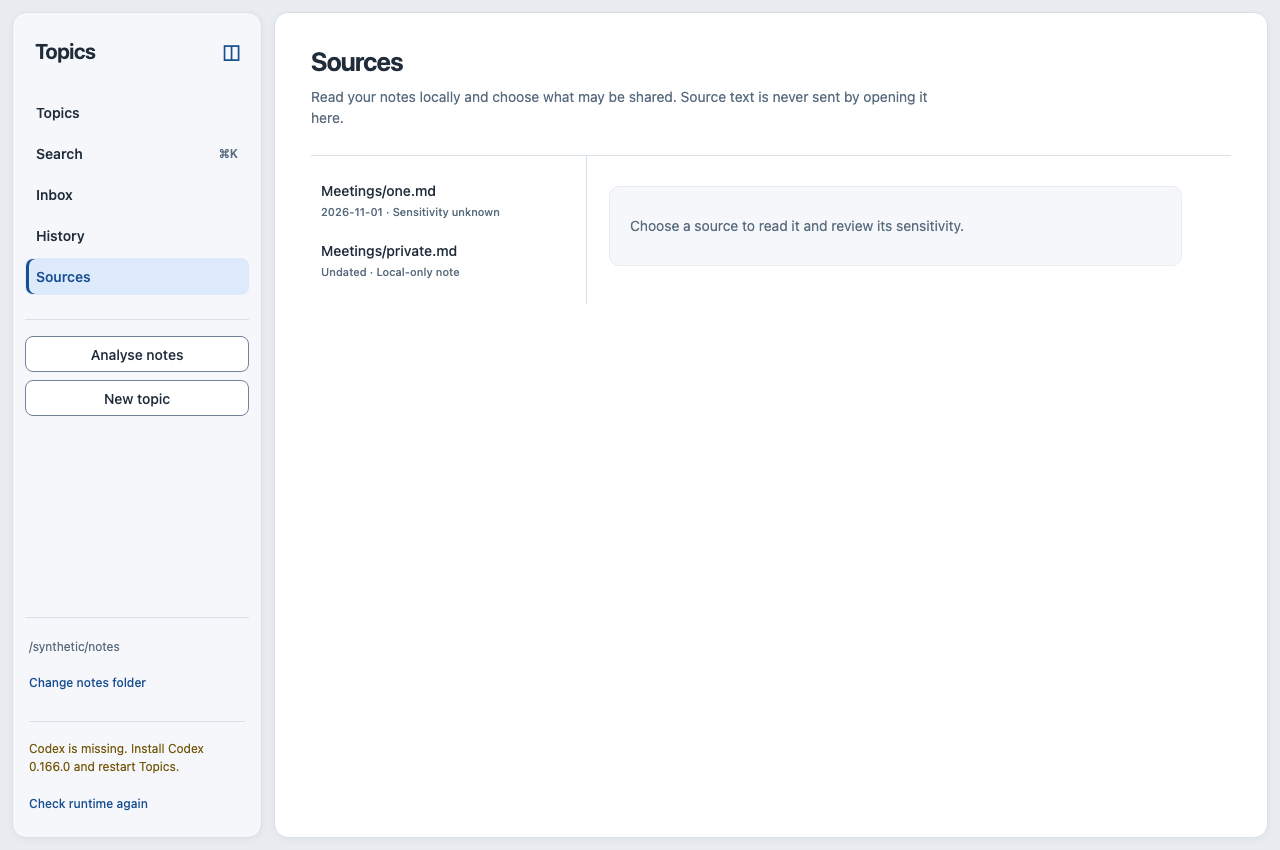
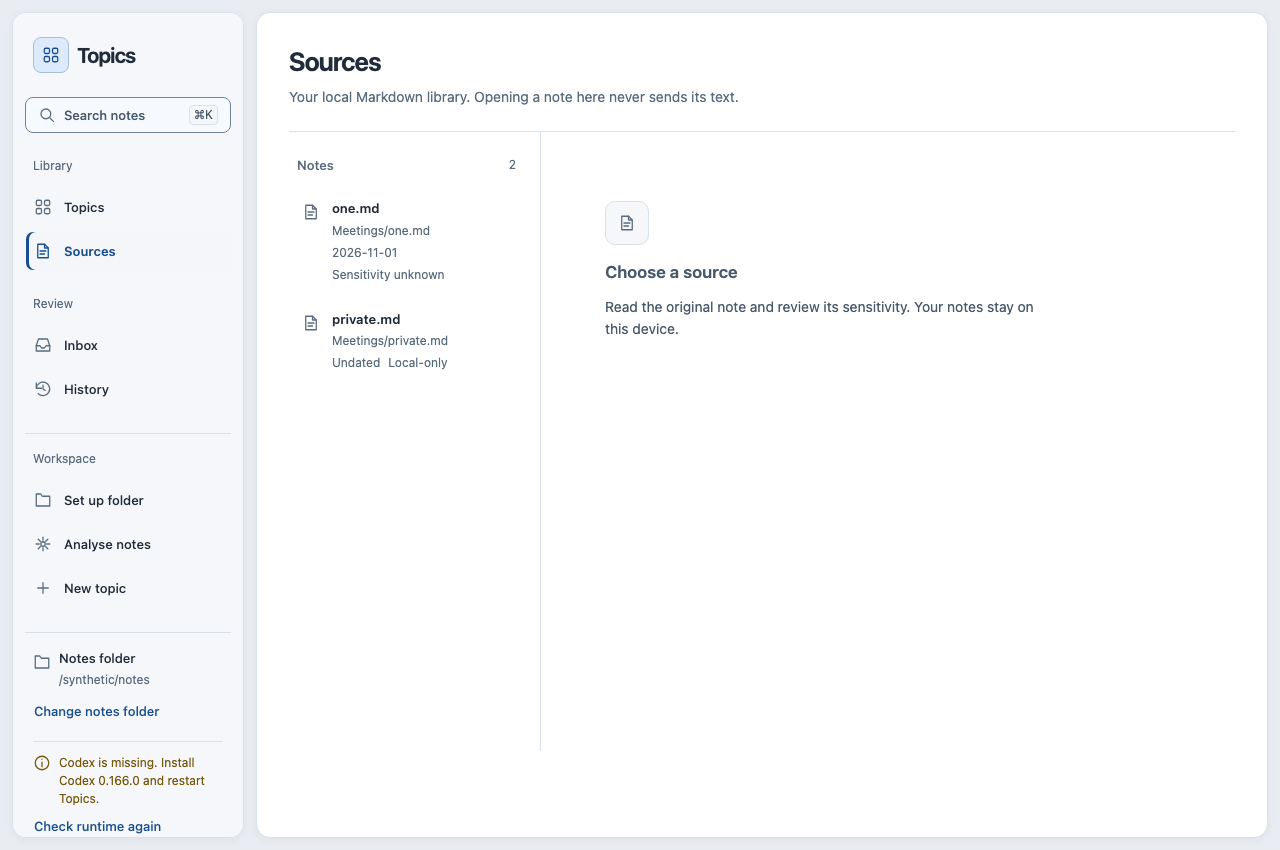
Record verified BoardUI screen evidence and integration coverage

diff --git a/apps/desktop/tests/setup-redesign.spec.ts b/apps/desktop/tests/setup-redesign.spec.ts
@@ -20,7 +20,8 @@ for (const appearance of ["light", "dark", "narrow"] as const) {
     await expect(
       page.getByRole("heading", { name: "Choose notes to analyse" }),
     ).toBeVisible();
-    await page.screenshot({
+    await page.evaluate(() => window.scrollTo(0, 0));
+      await page.screenshot({
       path: `evidence/redesign/after/${appearance}-folder-inventory.png`,
       fullPage: true,
     });
@@ -36,7 +37,8 @@ for (const appearance of ["light", "dark", "narrow"] as const) {
     await expect(
       page.getByLabel("Authorize this exact manifest for this job"),
     ).not.toBeChecked();
-    await page.screenshot({
+    await page.evaluate(() => window.scrollTo(0, 0));
+      await page.screenshot({
       path: `evidence/redesign/after/${appearance}-folder-manifest.png`,
       fullPage: true,
     });
@@ -57,7 +59,8 @@ for (const appearance of ["light", "dark", "narrow"] as const) {
     await expect(
       page.getByRole("button", { name: "Review topic group", exact: true }),
     ).toBeVisible();
-    await page.screenshot({
+    await page.evaluate(() => window.scrollTo(0, 0));
+      await page.screenshot({
       path: `evidence/redesign/after/${appearance}-starting-map.png`,
       fullPage: true,
     });
@@ -70,7 +73,8 @@ for (const appearance of ["light", "dark", "narrow"] as const) {
     await expect(page.getByRole("checkbox", { name: /^Include/ })).toHaveCount(
       0,
     );
-    await page.screenshot({
+    await page.evaluate(() => window.scrollTo(0, 0));
+      await page.screenshot({
       path: `evidence/redesign/after/${appearance}-save-map.png`,
       fullPage: true,
     });
@@ -128,7 +132,8 @@ for (const appearance of ["light", "dark", "narrow"] as const) {
         () => document.documentElement.scrollWidth <= innerWidth,
       ),
     ).toBe(true);
-    await page.screenshot({
+    await page.evaluate(() => window.scrollTo(0, 0));
+      await page.screenshot({
       path: `evidence/redesign/after/${appearance}-context-correction.png`,
       fullPage: true,
     });

diff --git a/apps/desktop/tests/redesign-capture.spec.ts b/apps/desktop/tests/redesign-capture.spec.ts
@@ -12,6 +12,7 @@ for (const appearance of ["light", "dark", "narrow"] as const) {
     "history",
     "setup",
     "analysis",
+    "manual",
   ] as const) {
     test(`capture ${appearance} ${screen}`, async ({ page }) => {
       await page.setViewportSize({
@@ -152,12 +153,17 @@ for (const appearance of ["light", "dark", "narrow"] as const) {
         await expect(
           page.getByRole("heading", { name: "Review selected notes" }),
         ).toBeVisible();
+      } else if (screen === "manual") {
+        await page.getByRole('complementary', { name: 'Topics workspace' }).getByRole('button', { name: 'New topic', exact: true }).click();
+        await page.getByLabel('Topic name', { exact: true }).fill('Migration questions');
+        await expect(page.getByRole('button', { name: 'Create proposal', exact: true })).toBeEnabled();
       } else await expect(page.getByLabel("Notes folder path")).toBeVisible();
       expect(
         await page.evaluate(
           () => document.documentElement.scrollWidth <= innerWidth,
         ),
       ).toBe(true);
+      await page.evaluate(() => window.scrollTo(0, 0));
       await page.screenshot({
         path: `evidence/redesign/${phase}/${appearance}-${screen}.png`,
         fullPage: true,

diff --git a/apps/desktop/evidence/redesign/README.md b/apps/desktop/evidence/redesign/README.md
@@ -1,0 +1,122 @@
+# BoardUI screen redesign verification
+
+Implementation checkpoint: `c6965c044dd580bd39e43da712e8740d5397dffd`, based on
+local main `a38b33471125225d57c8e1a257f092aed63a1f40`. Work was confined to
+`/Users/macs/orca/workspaces/topics/topics-boardui-screen-redesign`.
+
+The screen plan was written before implementation in
+[`docs/design/redesign.md`](../../../../docs/design/redesign.md). The change is
+a React structure and presentation redesign, with shared components adopted
+across screens. The established semantic palette, local system font and native
+controls remain. No remote font or production dependency was added.
+
+## Commits and integration
+
+| Commit | Purpose |
+| --- | --- |
+| `454f55a9b55f4b57b7e196c9f7e0de53e9a17f43` | Screen-level before/after plan, shared React primitives and reading/control type roles; shared early with the setup team. |
+| `49dc58f` | Synthetic baseline evidence and isolated capture configuration. |
+| `720f846c5d6978365aba05f39704468c6a5d6ee7` | Authorized cherry-pick of setup presentation checkpoint `cad67576a33179cc1101b070da9b5b54dff10218`. |
+| `c6965c044dd580bd39e43da712e8740d5397dffd` | Full structural screen implementation, documentation and interaction/contrast coverage. |
+
+The imported setup checkpoint includes its existing canonical/native adapters;
+this worker did not independently change native or generated binding contracts.
+The coordinator requested a final canonical setup delta before full acceptance.
+That delta is still pending at this checkpoint; this report does **not** claim
+verification of later setup/API changes or final native acceptance.
+
+## Screen coverage
+
+Every `after` screen below has a full-page synthetic screenshot in desktop
+light, desktop dark and narrow light. Prefix filenames with `light-`, `dark-`
+or `narrow-`. Desktop captures are 1440 × 960 CSS pixels; narrow is 600 × 960.
+The 320px long-content cases are functional tests, not additional screenshot
+claims. Full-page capture scroll is reset before capture so sticky navigation
+appears at the document top.
+
+| Surface | Substantive redesign | Screenshot basename in `after/` |
+| --- | --- | --- |
+| Shell | Grouped icon navigation, actual Cmd/Ctrl+K quick search, selected shapes, creation actions, full folder/runtime footer, skip link. | Present throughout |
+| Topics | One workspace heading/action, identity/type/privacy rows, dominant accepted claim values, adjacent uncertainty, disclosed evidence, connections/unresolved sections and revisions. | `topics.png` |
+| Sources | Basename/full-path library rows, selection, separate source identity/privacy/location controls, whitespace-preserving reading surface. | `sources.png` |
+| Search | Persistent labelled/adorned field, title/path/excerpt rows, safe highlights and distinct loading/idle/empty/error feedback. | `search.png` |
+| Inbox | Proposal heading/status and decision footer; candidate type/inclusion, related editable fields, full evidence and explicit approval/rejection. | `inbox.png` |
+| History | Operation icon, description, time/status, identity disclosure and contextual Undo with explanation when unavailable. | `history.png` |
+| Initial connection | Focused form; native chooser fills the labelled field, explicit Use notes folder connects; unrelated Search no longer appears beneath setup. | `setup.png` |
+| Manual capture | Focused identity/privacy form and explicit Create proposal; review remains required. | `manual.png` |
+| Analysis | Actual select → preview/authorize → Inbox sequence, grouped scope fields, included/excluded rows, consent and start boundary. | `analysis.png` |
+| Folder inventory | Shared page/section/field/button primitives, hierarchical notes/roles, date filters and exclusions. | `folder-inventory.png` |
+| Exact manifest | Named scope, exclusions, unchecked per-job authorization and disabled start until consent. | `folder-manifest.png` |
+| Starting map | Coverage, keyboard-accessible graph/list, topic detail group, relationships and input-needed sections. | `starting-map.png` |
+| Save receipt | Enumerated exact candidate/dependency/deferred context followed by explicit Save or Cancel. | `save-map.png` |
+| Contextual review | Compact review rows, status, source disclosure, focused correction form, original/replacement values, user statement and future-rule scope before approval. | `context-correction.png` |
+
+There are 21 immutable `before/` screenshots of the original seven requested
+surfaces, and 39 `after/` screenshots (13 surfaces × 3 appearances). New setup
+and contextual-review screens did not exist in the baseline and have no invented
+before screenshots. The `before-*-contact.png` and `after-*-contact.png` sheets
+provide comparison indexes. The original full-size images remain authoritative.
+
+All baseline screens and final screenshots were visually inspected, including
+the populated reader, source policy, search results, review/consent boundaries,
+operation rows, narrow stacking and the new setup/contextual states. Inspection
+caught a full-page skip-link artifact; unfocused skip links now use clipping,
+and screenshots reset scroll for consistent sticky-sidebar placement.
+
+## Checks
+
+Pinned local runtime: `apps/desktop/node_modules/node/bin/node`, **v24.22.2**.
+The initial dependency bootstrap used system npm; all verification used the
+project-local Node binary. Browser port **14337** is strict and isolated.
+Every test server invocation received the absolute isolated
+`TOPICS_APP_DATA_DIR=/tmp/topics-boardui-redesign-browser-0cd733`. Browser IPC
+is mocked with synthetic notes; no personal note tree, repository `notes`
+symlink, genuine model call or real user application was used.
+
+From `apps/desktop`:
+
+```sh
+TOPICS_APP_DATA_DIR=/tmp/topics-boardui-redesign-browser-0cd733 \
+  node_modules/node/bin/node node_modules/@playwright/test/cli.js test \
+  --config evidence/redesign/playwright.config.ts
+node_modules/node/bin/node node_modules/typescript/bin/tsc --noEmit
+node_modules/node/bin/node node_modules/vite/bin/vite.js build
+```
+
+- **81 browser tests passed**, including all existing feature/browser suites,
+  retained rendered contrast checks, the new interaction cases and captures.
+  See [`full-browser.txt`](full-browser.txt).
+- **TypeScript and production Vite build passed**; see [`build.txt`](build.txt).
+- New meaningful checks exercise Cmd/Ctrl+K from a topic, query selection,
+  disconnected setup guards, native disclosure Enter/Space behavior, delayed
+  topic selection, manual/settings cancel focus restoration, post-proposal
+  focus, exact manifest consent, graph keyboard activation, correction preview
+  without implicit approval, 320px long paths/content and browser text selection.
+- Existing async, stale-root/response, hostile markup, approval/dependency,
+  source sensitivity and draft/consent-preservation behavior remains covered.
+- Computed light/dark field boundary ratios: **3.89 / 3.48**; placeholders:
+  **5.48 / 6.89**; primary hover text: **7.67 / 4.87**. Added selected navigation,
+  privacy, uncertainty and icon checks meet their 4.5:1 text / 3:1 icon thresholds.
+  The contrast helper now composites all ancestor backgrounds, including alpha
+  during transitions, instead of incorrectly blending a dark surface onto white.
+- A full run caught remounted contextual-trigger focus loss. Stable trigger ids
+  now restore the actual trigger; the test also verifies folder-settings cancel
+  and resulting Inbox focus after manual proposal/approval.
+
+Some existing test locators were scoped to the named sidebar because New topic
+also exists in the Topics page header. The source empty-state assertion now uses
+its semantic heading. No approval or async safety assertion was removed.
+
+## Limits and remaining work
+
+- Final canonical setup delta and coordinator integration remain outstanding at
+  this checkpoint. Preserve their request/receipt/consent authority when merging.
+- Native Tauri/WebView smoke, packaged build and genuine runtime acceptance are
+  owned by the setup/integration team and were not run here. No user app restart,
+  push, PR or main merge occurred.
+- Browser width tests include 320, 480/600, 1280 and 1440px cases, with a 600px
+  200%-zoom-equivalent layout check and reduced-motion media. They do not replace
+  actual WebView zoom, VoiceOver or exhaustive viewport/state testing.
+- Setup job pause/resume/retry and every backend error have preserved controls,
+  but the screenshot set covers the representative synthetic finished-job path;
+  it is not exhaustive native state coverage.

diff --git a/docs/design/redesign.md b/docs/design/redesign.md
@@ -98,3 +98,13 @@ visible selection and explicit confirmation near the consequential action.
 No primitive grants consent, resets selection or calls IPC. New feature screens
 must be checked after integration; this branch cannot claim coverage of screens
 that have not landed.
+
+## Implementation checkpoint
+
+Implemented the structural screen plan and integrated authorized setup checkpoint
+`cad6757` in this isolated branch. All listed primitives are adopted by multiple
+screens; `style.css` is organized into one control/shell/form/reading/search/review
+layer rather than the previous accumulated override blocks. See the
+[verification and screen coverage report](../../apps/desktop/evidence/redesign/README.md)
+for exact commits, tests, before/after screenshots and pending canonical/native
+integration limits. This checkpoint does not cover a later unmerged API delta.
